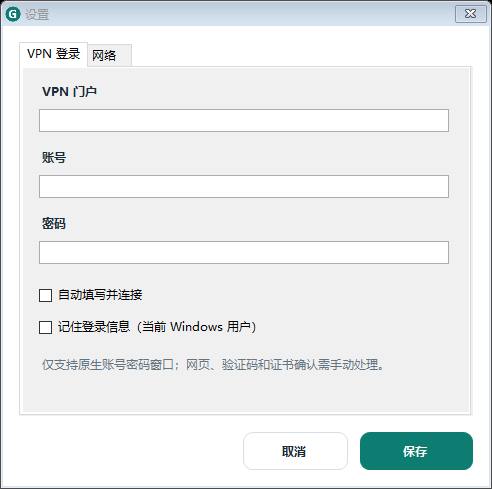
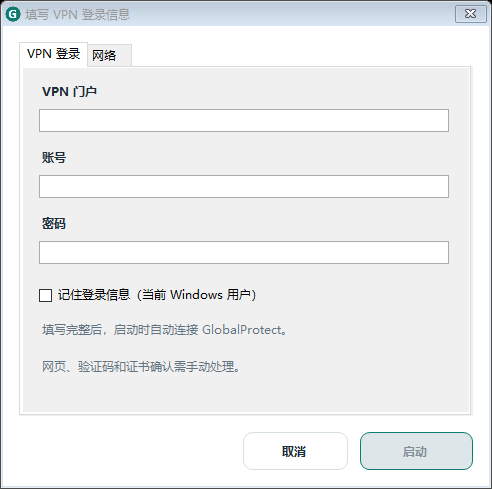
Require VPN login details before starting and always enable connection assistance

diff --git a/src/Program.cs b/src/Program.cs
@@ -16,8 +16,8 @@ using Microsoft.Win32;
 
 [assembly: AssemblyTitle("Global Protector WiFi")]
 [assembly: AssemblyDescription("Independent GlobalProtect split-routing companion")]
-[assembly: AssemblyVersion("0.3.0.0")]
-[assembly: AssemblyFileVersion("0.3.0.0")]
+[assembly: AssemblyVersion("0.3.1.0")]
+[assembly: AssemblyFileVersion("0.3.1.0")]
 namespace GlobalProtectorWiFi {
     internal static class Program {
         internal const string DefaultTarget = "10.213.134.31";
@@ -104,7 +104,6 @@ namespace GlobalProtectorWiFi {
         readonly CheckBox dnsMode = new CheckBox();
         readonly Label stateTitle = new Label();
         readonly Button start = new SoftButton(), restore = new Button(), vpn = new Button();
-        readonly CheckBox autoOpen = new CheckBox();
         bool armed, openedVpn; System.Windows.Forms.Timer reconnectTimer;
         readonly NotifyIcon tray = new NotifyIcon();
         Process worker; bool running, stopping, quitWhenStopped, allowClose, hadError;
@@ -136,7 +135,7 @@ namespace GlobalProtectorWiFi {
             settingsButton.Text="登录设置";StyleLink(settingsButton);settingsButton.SetBounds(18,300,88,27);settingsButton.Click+=delegate {ShowSettings();};
             var history=new Button {Text="日志"};StyleLink(history);history.SetBounds(110,300,64,27);history.Click+=delegate {ShowHistory();};
             Controls.Add(settingsButton);Controls.Add(history);
-            targets.Text=Program.DefaultTarget; dnsMode.Checked=true; autoOpen.Checked=true;
+            targets.Text=Program.DefaultTarget; dnsMode.Checked=true;
             if(!demo) {LoadSettings();LoadLogin(handoff);}
 
             var menu=new ContextMenuStrip();
@@ -164,9 +163,12 @@ namespace GlobalProtectorWiFi {
             else {start.Text="启动";start.Enabled=true;}
             settingsButton.Enabled=!running && !armed && !recoveryNeeded;
         }
-        void ShowSettings() {
-            if(running || armed || recoveryNeeded)return;
-            using(var dialog=new Form {Text="设置",ClientSize=new Size(486,460),FormBorderStyle=FormBorderStyle.FixedDialog,MaximizeBox=false,MinimizeBox=false,StartPosition=FormStartPosition.CenterParent,Font=Font,BackColor=Color.White,Icon=Icon}) {
+        bool EnsureLoginForStart() {
+            return LoginRules.IsComplete(loginProfile) || ShowSettings(true);
+        }
+        bool ShowSettings(bool forStart=false) {
+            if(running || armed || recoveryNeeded)return false;
+            using(var dialog=new Form {Text=forStart?"填写 VPN 登录信息":"设置",ClientSize=new Size(486,460),FormBorderStyle=FormBorderStyle.FixedDialog,MaximizeBox=false,MinimizeBox=false,StartPosition=FormStartPosition.CenterParent,Font=Font,BackColor=Color.White,Icon=Icon}) {
                 var tabs=new TabControl {Bounds=new Rectangle(16,16,454,374)};
                 var loginTab=new TabPage("VPN 登录");var networkTab=new TabPage("网络");tabs.TabPages.Add(loginTab);tabs.TabPages.Add(networkTab);dialog.Controls.Add(tabs);
                 loginTab.Controls.Add(LabelAt("VPN 门户",16,15,400,22,9,true));
@@ -175,32 +177,42 @@ namespace GlobalProtectorWiFi {
                 var username=new TextBox {Text=loginProfile.Username,MaxLength=256,Bounds=new Rectangle(16,107,410,26)};loginTab.Controls.Add(username);
                 loginTab.Controls.Add(LabelAt("密码",16,147,400,22,9,true));
                 var password=new TextBox {Text=loginProfile.Password,UseSystemPasswordChar=true,MaxLength=1024,Bounds=new Rectangle(16,173,410,26)};loginTab.Controls.Add(password);
-                var autoLogin=new CheckBox {Text="自动填写并连接",Checked=loginProfile.Enabled,Bounds=new Rectangle(16,215,410,26)};
-                var remember=new CheckBox {Text="记住登录信息（当前 Windows 用户）",Checked=loginProfile.Remember,Bounds=new Rectangle(16,247,410,26)};
-                loginTab.Controls.AddRange(new Control[]{autoLogin,remember});
-                loginTab.Controls.Add(LabelAt("仅支持原生账号密码窗口；网页、验证码和证书确认需手动处理。",16,288,410,43,8.5F,false));
+                var remember=new CheckBox {Text="记住登录信息（当前 Windows 用户）",Checked=loginProfile.Remember,Bounds=new Rectangle(16,215,410,26)};
+                loginTab.Controls.Add(remember);
+                loginTab.Controls.Add(LabelAt("填写完整后，启动时自动连接 GlobalProtect。",16,253,410,26,9,false));
+                loginTab.Controls.Add(LabelAt("网页、验证码和证书确认需手动处理。",16,290,410,26,8.5F,false));
 
                 networkTab.Controls.Add(LabelAt("目标地址",16,15,410,22,9,true));
                 var editTargets=new TextBox {Multiline=true,Text=targets.Text,Bounds=new Rectangle(16,44,410,65),Font=new Font("Consolas",10)};networkTab.Controls.Add(editTargets);
                 var chooseDns=new CheckBox {Text="自动选择 DNS",Checked=dnsMode.Checked,Bounds=new Rectangle(16,139,230,25)};
                 var editDns=new TextBox {Text=manualDns.Text,Bounds=new Rectangle(276,139,150,25),Enabled=!chooseDns.Checked};chooseDns.CheckedChanged+=delegate {editDns.Enabled=!chooseDns.Checked;};
-                var chooseOpen=new CheckBox {Text="自动打开 GlobalProtect",Checked=autoOpen.Checked,Bounds=new Rectangle(16,181,410,28)};networkTab.Controls.AddRange(new Control[]{chooseDns,editDns,chooseOpen});
+                networkTab.Controls.AddRange(new Control[]{chooseDns,editDns});
                 var cancel=new SoftButton {Text="取消",Bounds=new Rectangle(240,406,105,38),DialogResult=DialogResult.Cancel};Style(cancel,false);
-                var save=new SoftButton {Text="保存",Bounds=new Rectangle(357,406,113,38)};Style(save,true);
+                var save=new SoftButton {Text=forStart?"启动":"保存",Bounds=new Rectangle(357,406,113,38)};Style(save,true);
+                Func<LoginProfile> readLogin=()=>new LoginProfile {Portal=portal.Text.Trim(),Username=username.Text.Trim(),Password=password.Text,Remember=remember.Checked};
+                EventHandler updateSave=delegate {save.Enabled=LoginRules.IsComplete(readLogin());};
+                portal.TextChanged+=updateSave;username.TextChanged+=updateSave;password.TextChanged+=updateSave;updateSave(null,EventArgs.Empty);
                 save.Click+=delegate {
                     try {
-                        var next=new LoginProfile {Portal=portal.Text.Trim(),Username=username.Text.Trim(),Password=password.Text,Enabled=autoLogin.Checked,Remember=remember.Checked};LoginRules.Validate(next);
+                        var next=readLogin();LoginRules.Validate(next);
                         string value=String.IsNullOrWhiteSpace(editTargets.Text)?Program.DefaultTarget:editTargets.Text;var list=InputRules.Parse(value,false);string selectedDns="";
                         if(!chooseDns.Checked){var parsed=InputRules.Parse(editDns.Text,false);if(parsed.Length!=1)throw new ArgumentException("指定 DNS 只需填写一个地址。");selectedDns=parsed[0];}
-                        if(!demo){SaveSettings(list,selectedDns,chooseOpen.Checked);try{if(next.Remember)CredentialVault.Write(CredentialVault.SavedPath,next);else if(File.Exists(CredentialVault.SavedPath))File.Delete(CredentialVault.SavedPath);}catch{throw new InvalidOperationException("登录信息无法保存，请检查当前用户的文件权限。");}}
-                        loginProfile=next;targets.Text=String.Join(Environment.NewLine,list);manualDns.Text=selectedDns;dnsMode.Checked=chooseDns.Checked;autoOpen.Checked=chooseOpen.Checked;dialog.DialogResult=DialogResult.OK;
+                        if(!demo){SaveSettings(list,selectedDns);try{if(next.Remember)CredentialVault.Write(CredentialVault.SavedPath,next);else if(File.Exists(CredentialVault.SavedPath))File.Delete(CredentialVault.SavedPath);}catch{throw new InvalidOperationException("登录信息无法保存，请检查当前用户的文件权限。");}}
+                        loginProfile=next;targets.Text=String.Join(Environment.NewLine,list);manualDns.Text=selectedDns;dnsMode.Checked=chooseDns.Checked;dialog.DialogResult=DialogResult.OK;
                     }catch(ArgumentException e){MessageBox.Show(dialog,e.Message,"请检查设置",MessageBoxButtons.OK,MessageBoxIcon.Information);}
                     catch{MessageBox.Show(dialog,"设置未保存，请检查文件权限后重试。","保存失败",MessageBoxButtons.OK,MessageBoxIcon.Information);}
                 };
                 dialog.Controls.AddRange(new Control[]{cancel,save});dialog.AcceptButton=save;dialog.CancelButton=cancel;
-                if(demo && settingsTest){settingsTestPassed=password.UseSystemPasswordChar && tabs.TabPages.Count==2 && !autoLogin.Checked && !remember.Checked;return;}
-                if(demo && !String.IsNullOrEmpty(settingsPreview)) {dialog.Show();Application.DoEvents();using(var image=new Bitmap(dialog.Width,dialog.Height)){dialog.DrawToBitmap(image,new Rectangle(Point.Empty,image.Size));image.Save(settingsPreview,System.Drawing.Imaging.ImageFormat.Png);}dialog.Hide();return;}
-                dialog.ShowDialog(this);
+                if(demo && settingsTest){
+                    bool incomplete=!save.Enabled;
+                    portal.Text="vpn.example.com";username.Text="test-user";password.Text="test-password";bool complete=save.Enabled;
+                    password.Clear();bool missingPassword=!save.Enabled;
+                    settingsTestPassed=password.UseSystemPasswordChar && tabs.TabPages.Count==2 && !remember.Checked && forStart && save.Text=="启动" && incomplete && complete && missingPassword && !Descendants(dialog).Any(c=>c.Text=="自动填写并连接" || c.Text=="自动打开 GlobalProtect");
+                    return false;
+                }
+                if(demo && !String.IsNullOrEmpty(settingsPreview)) {dialog.Show();Application.DoEvents();using(var image=new Bitmap(dialog.Width,dialog.Height)){dialog.DrawToBitmap(image,new Rectangle(Point.Empty,image.Size));image.Save(settingsPreview,System.Drawing.Imaging.ImageFormat.Png);}dialog.Hide();return false;}
+                dialog.Shown+=delegate {if(String.IsNullOrWhiteSpace(portal.Text))portal.Focus();else if(String.IsNullOrWhiteSpace(username.Text))username.Focus();else password.Focus();};
+                return dialog.ShowDialog(this)==DialogResult.OK;
             }
         }
         void LoadLogin(string handoff) {
@@ -238,11 +250,12 @@ namespace GlobalProtectorWiFi {
             PreviewState("waiting");bool wait=start.Text=="停止" && start.Enabled && !settingsButton.Enabled;
             PreviewState("ready");bool ready=start.Text=="停止" && stateTitle.Text=="已连接";
             PreviewState("error");bool recovery=start.Text=="恢复" && start.Enabled;
-            running=false;armed=false;recoveryNeeded=false;settingsTest=true;ShowSettings();settingsTest=false;
+            running=false;armed=false;recoveryNeeded=false;settingsTest=true;bool missingBlocked=!EnsureLoginForStart();settingsTest=false;
+            loginProfile=new LoginProfile{Portal="vpn.example.com",Username="test-user",Password="test-password"};bool completeAllowed=EnsureLoginForStart();loginProfile=new LoginProfile();
             bool purpose=Descendants(this).Any(x=>x.Text.Contains("GlobalProtect") && x.Text.Contains("普通网络访问"));
-            return noInputs && idle && wait && ready && recovery && purpose && settingsTestPassed;
+            return noInputs && idle && wait && ready && recovery && purpose && settingsTestPassed && missingBlocked && completeAllowed;
         }
-        internal void RenderLoginSettings(string path){if(!demo)throw new InvalidOperationException();settingsPreview=path;ShowSettings();settingsPreview=null;}
+        internal void RenderLoginSettings(string path){if(!demo)throw new InvalidOperationException();settingsPreview=path;ShowSettings(true);settingsPreview=null;}
         static IEnumerable<Control> Descendants(Control parent) {foreach(Control c in parent.Controls){yield return c;foreach(var d in Descendants(c)) yield return d;}}
         Label LabelAt(string text, int x, int y, int w, int h, float size, bool bold) { return new Label { Text = text, Bounds = new Rectangle(x,y,w,h), Font = new Font("Microsoft YaHei UI",size,bold?FontStyle.Bold:FontStyle.Regular), ForeColor = bold?ink:muted }; }
         void Style(Button b, bool primary) { b.FlatStyle = FlatStyle.Flat; b.FlatAppearance.BorderColor = primary?accent:Color.FromArgb(214,224,228); b.FlatAppearance.BorderSize = 1; b.BackColor = primary?accent:Color.White; b.ForeColor = primary?Color.White:ink; b.Cursor = Cursors.Hand; b.Font = new Font(Font,FontStyle.Bold); }
@@ -271,20 +284,21 @@ namespace GlobalProtectorWiFi {
             log.AppendText(DateTime.Now.ToString("HH:mm:ss")+"  "+message+Environment.NewLine);
             if(visibleLog!=null && !visibleLog.IsDisposed)visibleLog.Text=log.Text;
         }
-        void LoadSettings() { try { string path=Path.Combine(Program.Root,"settings.json"); if(File.Exists(path)) { var d=Program.Json.Deserialize<Dictionary<string,string>>(File.ReadAllText(path)); targets.Text=d.ContainsKey("targets") && !String.IsNullOrWhiteSpace(d["targets"])?d["targets"]:Program.DefaultTarget; manualDns.Text=d.ContainsKey("dns")?d["dns"]:""; dnsMode.Checked=String.IsNullOrEmpty(manualDns.Text); autoOpen.Checked=!d.ContainsKey("autoOpen") || d["autoOpen"]=="true"; } } catch { targets.Text=Program.DefaultTarget; Append("设置未读取，已使用预设目标。"); } }
-        void SaveSettings(string[] list,string dns,bool? open=null) { Directory.CreateDirectory(Program.Root); File.WriteAllText(Path.Combine(Program.Root,"settings.json"),Program.Json.Serialize(new Dictionary<string,string>{{"targets",String.Join(Environment.NewLine,list)},{"dns",dns},{"autoOpen",(open ?? autoOpen.Checked)?"true":"false"}}),Encoding.UTF8); }
-        string ExtractEngine() { Directory.CreateDirectory(Program.Root); string path=Path.Combine(Program.Root,"engine-0.3.0.ps1"); using(var stream=Assembly.GetExecutingAssembly().GetManifestResourceStream("Engine.ps1")) using(var reader=new StreamReader(stream,Encoding.UTF8)) File.WriteAllText(path,reader.ReadToEnd(),new UTF8Encoding(true)); return path; }
+        void LoadSettings() { try { string path=Path.Combine(Program.Root,"settings.json"); if(File.Exists(path)) { var d=Program.Json.Deserialize<Dictionary<string,string>>(File.ReadAllText(path)); targets.Text=d.ContainsKey("targets") && !String.IsNullOrWhiteSpace(d["targets"])?d["targets"]:Program.DefaultTarget; manualDns.Text=d.ContainsKey("dns")?d["dns"]:""; dnsMode.Checked=String.IsNullOrEmpty(manualDns.Text); } } catch { targets.Text=Program.DefaultTarget; Append("设置未读取，已使用预设目标。"); } }
+        void SaveSettings(string[] list,string dns) { Directory.CreateDirectory(Program.Root); File.WriteAllText(Path.Combine(Program.Root,"settings.json"),Program.Json.Serialize(new Dictionary<string,string>{{"targets",String.Join(Environment.NewLine,list)},{"dns",dns}}),Encoding.UTF8); }
+        string ExtractEngine() { Directory.CreateDirectory(Program.Root); string path=Path.Combine(Program.Root,"engine-0.3.1.ps1"); using(var stream=Assembly.GetExecutingAssembly().GetManifestResourceStream("Engine.ps1")) using(var reader=new StreamReader(stream,Encoding.UTF8)) File.WriteAllText(path,reader.ReadToEnd(),new UTF8Encoding(true)); return path; }
         void StartWorker(string mode, bool resume = false) {
             string loginSession=null;
             try {
                 if (demo) { Append("预览模式仅展示界面，不执行网络修改。"); return; }
                 if (running) return;
+                if(mode=="Start" && !EnsureLoginForStart())return;
                 if(mode=="Start" && String.IsNullOrWhiteSpace(targets.Text)) targets.Text=Program.DefaultTarget;
                 string[] list=mode=="Start"?InputRules.Parse(targets.Text,false):new string[0]; string dns="";
                 if(mode=="Start" && !dnsMode.Checked) { var parsed=InputRules.Parse(manualDns.Text,false); if(parsed.Length!=1) throw new ArgumentException("指定 DNS 只需填写一个 IPv4 地址。"); dns=parsed[0]; }
                 if(mode=="Start") SaveSettings(list,dns);
                 if(!Program.Admin) {
-                    if(mode=="Start" && loginProfile.Enabled)loginSession=CredentialVault.CreateHandoff(loginProfile);
+                    if(mode=="Start")loginSession=CredentialVault.CreateHandoff(loginProfile);
                     var elevated=new ProcessStartInfo(Application.ExecutablePath,(mode=="Start"?"--autostart":"--recover")+(loginSession==null?"":" --login-session="+loginSession)) {UseShellExecute=true,Verb="runas"};
                     Process.Start(elevated); allowClose=true; Close(); return;
                 }
@@ -309,7 +323,7 @@ namespace GlobalProtectorWiFi {
         void OnEvent(string line) {
             try {
                 var evt=Program.Json.Deserialize<Dictionary<string,object>>(line); string name=Convert.ToString(evt["Event"]); object data=evt.ContainsKey("Data")?evt["Data"]:null;
-                if(name=="WAITING_FOR_VPN") { SetStatus("等待连接"); Append("等待 VPN 连接。"); if((autoOpen.Checked || loginProfile.Enabled) && !openedVpn) { openedVpn=true; OpenVpn(); } if(loginProfile.Enabled && !loginAttempted){loginAttempted=true;BeginLogin();} }
+                if(name=="WAITING_FOR_VPN") { SetStatus("等待连接"); Append("等待 VPN 连接。"); if(!openedVpn) { openedVpn=true; OpenVpn(); } if(!loginAttempted){loginAttempted=true;BeginLogin();} }
                 else if(name=="APPLIED_TEMPORARY_SPLIT") { SetStatus("验证中"); Append("临时分流已应用，正在验证。"); }
                 else if(name=="READY") { CancelLogin();SetStatus("分流正常"); Append("路由、公网和 DNS 验证通过。"); tray.Visible=true; }
                 else if(name=="ERROR" || name=="ROLLBACK_FAILED") { CancelLogin();hadError=true; var d=data as Dictionary<string,object>; lastError=d!=null && d.ContainsKey("Message")?Convert.ToString(d["Message"]):Convert.ToString(data); Append(lastError); SetStatus("需要查看"); }

diff --git a/tests/LoginTests.cs b/tests/LoginTests.cs
@@ -7,6 +7,17 @@ class LoginTests {
     static int Main(){
         Assert(LoginRules.PortalKey("VPN.example.com")==LoginRules.PortalKey("https://vpn.example.com:443/"),"Portal normalization");
         foreach(string input in new[]{"","http://vpn.example.com","https://user:password@vpn.example.com","https://vpn.example.com/path","https://vpn.example.com/?secret=x","https://vpn.example.com/#x"}){bool rejected=false;try{LoginRules.PortalKey(input);}catch(ArgumentException){rejected=true;}Assert(rejected,"Unsafe portal accepted");}
+        Assert(!LoginRules.IsComplete(null),"Null profile accepted");
+        for(int bits=0;bits<8;bits++){
+            var candidate=new LoginProfile {Portal=(bits&1)!=0?"vpn.example.com":"",Username=(bits&2)!=0?"test-user":"",Password=(bits&4)!=0?"test-password":""};
+            Assert(LoginRules.IsComplete(candidate)==(bits==7),"Incomplete credentials bypassed startup gate");
+        }
+        Assert(!LoginRules.IsComplete(new LoginProfile{Portal="vpn.example.com",Username=" ",Password="test-password"}),"Whitespace username accepted");
+        Assert(!LoginRules.IsComplete(new LoginProfile{Portal="vpn.example.com",Username="test-user",Password=" "}),"Whitespace password accepted");
+        Assert(!LoginRules.IsComplete(new LoginProfile{Portal="http://vpn.example.com",Username="test-user",Password="test-password"}),"Invalid portal bypassed startup gate");
+        Assert(typeof(LoginProfile).GetField("Enabled")==null,"Automatic login remains optional");
+        var legacy=new System.Web.Script.Serialization.JavaScriptSerializer().Deserialize<LoginProfile>("{\"Portal\":\"vpn.example.com\",\"Username\":\"test-user\",\"Password\":\"test-password\",\"Enabled\":false,\"Remember\":true}");
+        Assert(LoginRules.IsComplete(legacy) && legacy.Remember,"Legacy disabled-login profile failed migration");
         Assert(LoginRules.Decide(true,true,false,1,1,true,false,true)=="credentials","Native username/password layout");
         Assert(LoginRules.Decide(false,true,false,1,1,true,false,true)=="manual","Untrusted process");
         Assert(LoginRules.Decide(true,false,false,1,1,true,false,true)=="manual","Different portal");
@@ -17,13 +28,13 @@ class LoginTests {
         Assert(LoginRules.Decide(true,true,false,0,0,false,true,true)=="connect","First explicit connect");
         Assert(LoginRules.Decide(true,true,false,0,0,false,true,false)=="wait","Passive reconnect must not click connect");
         string path=Path.Combine(AppDomain.CurrentDomain.BaseDirectory,"test-profile.dpapi");
-        var profile=new LoginProfile {Portal="vpn.example.com",Username="fake-login-user",Password="fake-test-secret-ONLY-12345",Enabled=true,Remember=true};
+        var profile=new LoginProfile {Portal="vpn.example.com",Username="fake-login-user",Password="fake-test-secret-ONLY-12345",Remember=true};
         try{
             CredentialVault.Write(path,profile);string raw=Encoding.UTF8.GetString(File.ReadAllBytes(path));
             Assert(!raw.Contains(profile.Password) && !raw.Contains(profile.Username),"Plaintext credential on disk");
             var restored=CredentialVault.Read(path);Assert(restored.Username==profile.Username && restored.Password==profile.Password && restored.Portal==profile.Portal,"DPAPI round trip");
             var bytes=File.ReadAllBytes(path);bytes[bytes.Length/2]^=0x5A;File.WriteAllBytes(path,bytes);bool rejected=false;try{CredentialVault.Read(path);}catch{rejected=true;}Assert(rejected,"Modified ciphertext was accepted");
         }finally{if(File.Exists(path))File.Delete(path);}
-        Console.WriteLine("PASS: portal binding, guarded login decisions, passive reconnect, encrypted credential storage and tamper rejection.");return 0;
+        Console.WriteLine("PASS: mandatory credentials, legacy profile migration, portal binding, guarded login decisions, passive reconnect, encrypted credential storage and tamper rejection.");return 0;
     }
 }

diff --git a/src/Login.cs b/src/Login.cs
@@ -14,8 +14,8 @@ using Microsoft.Win32;
 namespace GlobalProtectorWiFi {
     public sealed class LoginProfile {
         public string Portal="", Username="", Password="";
-        public bool Enabled, Remember;
-        public LoginProfile Copy(){return new LoginProfile{Portal=Portal,Username=Username,Password=Password,Enabled=Enabled,Remember=Remember};}
+        public bool Remember;
+        public LoginProfile Copy(){return new LoginProfile{Portal=Portal,Username=Username,Password=Password,Remember=Remember};}
     }
     public static class LoginRules {
         public static string PortalKey(string text) {
@@ -25,10 +25,12 @@ namespace GlobalProtectorWiFi {
             return uri.IdnHost.ToLowerInvariant()+(uri.IsDefaultPort?"":":"+uri.Port);
         }
         public static void Validate(LoginProfile profile) {
-            if(!profile.Enabled)return;
+            if(profile==null || String.IsNullOrWhiteSpace(profile.Portal))throw new ArgumentException("请填写 VPN 门户地址。");
             PortalKey(profile.Portal);
-            if(String.IsNullOrWhiteSpace(profile.Username) || profile.Username.Length>256 || String.IsNullOrEmpty(profile.Password) || profile.Password.Length>1024)throw new ArgumentException("请填写账号和密码。");
+            if(String.IsNullOrWhiteSpace(profile.Username) || profile.Username.Length>256)throw new ArgumentException("请填写账号。");
+            if(String.IsNullOrWhiteSpace(profile.Password) || profile.Password.Length>1024)throw new ArgumentException("请填写密码。");
         }
+        public static bool IsComplete(LoginProfile profile){try{Validate(profile);return true;}catch(ArgumentException){return false;}}
         public static string Decide(bool trusted,bool portalMatches,bool blocked,int users,int passwords,bool submit,bool connect,bool allowConnect) {
             if(!trusted || !portalMatches || blocked)return "manual";
             if(passwords>0)return users==1 && passwords==1 && submit?"credentials":"manual";

diff --git a/docs/RELEASE_NOTES.md b/docs/RELEASE_NOTES.md
@@ -1,10 +1,9 @@
-Global Protector WiFi v0.3.0 公开预览版。
+Global Protector WiFi v0.3.1 公开预览版。
 
-- 主界面增加用途说明：连接 GlobalProtect 时保留普通网络访问。
-- 登录设置中可预输入 VPN 门户、账号、密码，选择辅助连接及本机加密记忆。
-- 对核验过的官方原生窗口尝试一次连接、填写和提交；不同门户、不同用户、非官方程序及不明确的窗口不接收凭据。
-- 网页登录、验证码和证书确认仍需用户处理；不反复提交错误密码。
-- 密码不进入命令行、设置文本、日志或仓库。可选记忆使用 Windows DPAPI 当前用户加密；UAC 通过一次性加密文件交接。
-- 保留默认分流目标、网络恢复和被动重连处理。
+- 点击启动时，缺少 VPN 门户、账号或密码会自动弹出登录窗口，填完整后才能继续。
+- 启动时自动打开 GlobalProtect 并辅助连接固定启用，删除自动连接及自动打开客户端的开关。
+- 取消填写保持未启动状态，不触发管理员提权或网络修改；停止和恢复操作不受登录必填限制。
+- 兼容已有加密登录信息，旧版关闭自动连接的选项不再生效。记住登录信息仍可自由选择，使用当前 Windows 用户加密保存。
+- 保留原有临时分流、网络恢复、被动重连和登录窗口身份核验。
 
-辅助登录属于客户端 UI 兼容功能：存储、门户绑定、保护条件和模拟逻辑测试通过，且本机客户端签名核验通过；没有使用真实账号密码进行自动登录实测。遇到不兼容窗口会提示手动登录。请先停止旧版，再运行新版。
+本地与 CI 测试覆盖必填启动门槛、弹窗按钮状态、旧配置迁移和加密保存。真实账号自动登录尚未实测；网页、验证码和证书确认仍需手动处理。请先停止并退出旧版，再运行新版。
